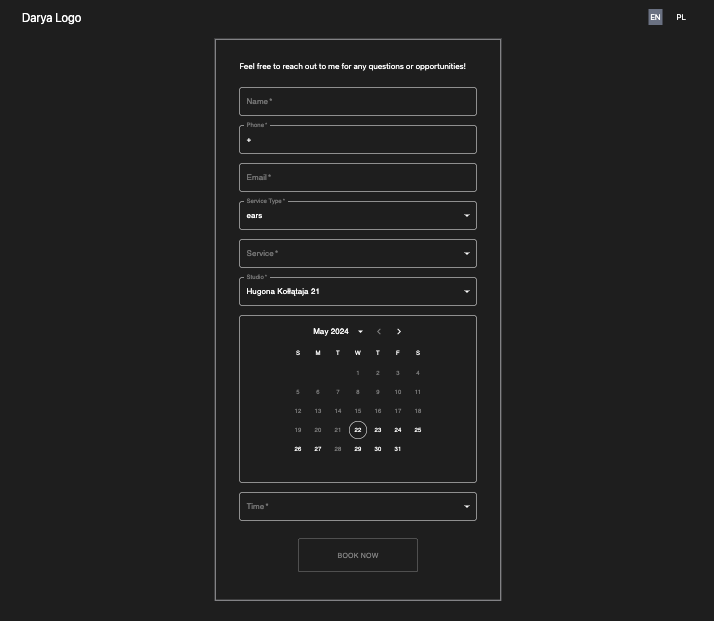
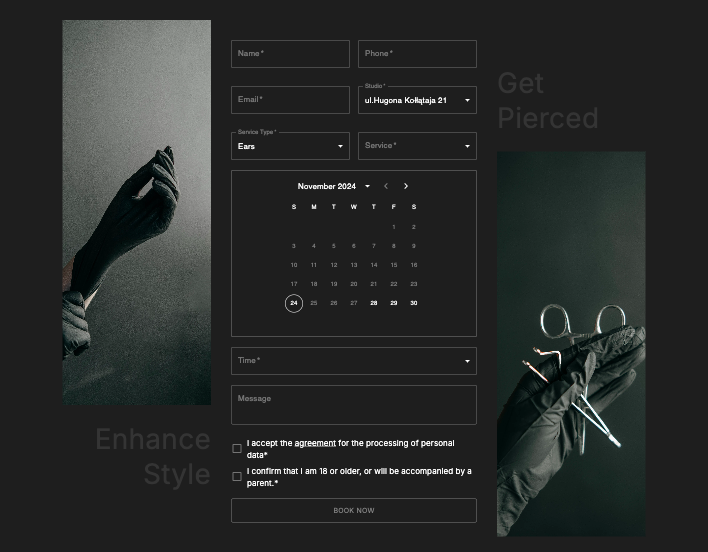
Add info about piercing-app

diff --git a/src/components/Sections/projects/projects.constants.tsx b/src/components/Sections/projects/projects.constants.tsx
@@ -177,6 +177,98 @@ export const projects: ProjectsType = [
   },
   {
     id: 3,
+    name: 'Daryauo piercing',
+    description: 'The platform for booking piercing services in Wrocław.',
+    text: (
+      <p>
+        <p>
+          This project has already been deployed and is available at the
+          following link:{' '}
+          <a
+            href="https://daryauo-piercing.pl/"
+            target="_blank"
+            className="font-bold"
+          >
+            https://daryauo-piercing.pl/
+          </a>
+          .
+        </p>
+        <p>
+          I'm using technologies such as{' '}
+          {
+            <span className="font-bold">
+              Next.js, React, Redux Toolkit, REST API
+            </span>
+          }{' '}
+          for its creation. Styles were written using{' '}
+          {<span className="font-bold">Tailwind CSS and MUI</span>}.
+        </p>
+      </p>
+    ),
+    clarification: (
+      <p>
+        Additionally, the project requires content to be displayed in Polish and
+        English languages. For this functionality, I'm using
+        <span className="font-bold"> i18next</span>.
+      </p>
+    ),
+    imgs: [
+      {
+        src: `${BASE_URL}daryauo-piercing-page.png`,
+        text: (
+          <p>
+            The main feature at the moment is a form that users fill out to book
+            a procedure. After the user completes this form, I validate it and
+            send it to the server for further notifications about their booking.
+          </p>
+        ),
+      },
+      {
+        src: `${BASE_URL}daryauo-piercing-form.png`,
+        text: (
+          <p>
+            In this project, a responsive design was implemented, catering to
+            various screens such as{' '}
+            <span className="font-bold">
+              desktops, laptops, tablets, and phones
+            </span>
+            . There is also functionality for error handling.
+          </p>
+        ),
+      },
+      {
+        src: `${BASE_URL}daryauo-piercing-error.png`,
+        text: (
+          <p>
+            The platform will include information about the piercing studio,
+            work portfolios with photos and descriptions, and reviews.
+          </p>
+        ),
+      },
+    ],
+    stack: [
+      'Next.js',
+      'React',
+      'Redux Toolkit',
+      'TypeScript',
+      'Tailwind CSS',
+      'MUI',
+      'i18next',
+      'GIT',
+    ],
+    team: '1 Front-end developer, 1 Back-end developer, Designer',
+    tasks: [
+      '- Designed and developed robust solutions meeting client requirements for functionality, scalability, and performance.',
+      '- Worked with the React framework and Next.js, applying extensive experience in TypeScript and utilizing Redux to develop an application.',
+      '- Developed a project enabling users to book a piercing procedure, including a form for submission, form validation, and the creation of new components and hooks.',
+      '- Implemented functionality for language switching to view content in different languages.',
+      '- Optimized application for improved user performance, conducted code refactoring, and enhanced overall functionality.',
+      '- Integrated the backend to send data from the validated form to the server for further user notification about the booking, working with API requests.',
+      '- Developed screen layouts with information about the piercing studio, using the MUI library and Tailwind CSS.',
+    ],
+  },
+  {
+    id: 4,
     name: 'New Energy Development s.r.o.',
     description:
       'The platform for a construction company in France to display their services, book services, and showcase a gallery of completed projects.',
@@ -275,70 +367,6 @@ export const projects: ProjectsType = [
       '- Implemented functionality for language switching to view content in different languages.',
       '- Optimized application for improved user performance, conducted code refactoring, and enhanced overall functionality.',
       '- Developed screen layouts with information about the construction company, using the MUI library and Tailwind CSS.',
-    ],
-  },
-  {
-    id: 4,
-    name: 'Daryauo piercing',
-    description: 'The platform for booking piercing services in Wrocław.',
-    text: (
-      <p>
-        <p>
-          This project is currently under development. I'm using technologies
-          such as{' '}
-          {<span className="font-bold">Next.js, React, Redux Toolkit</span>} for
-          its creation. Styles were written using{' '}
-          {<span className="font-bold">Tailwind CSS and MUI</span>}.
-        </p>
-      </p>
-    ),
-    clarification: (
-      <p>
-        Additionally, the project requires content to be displayed in Polish,
-        Russian, and English languages. For this functionality, I'm using
-        <span className="font-bold"> i18next</span>.
-      </p>
-    ),
-    imgs: [
-      {
-        src: `${BASE_URL}daryauo-piercing-page.png`,
-        text: (
-          <p>
-            The platform will include information about the piercing studio,
-            work portfolios with photos and descriptions, and reviews.
-          </p>
-        ),
-      },
-      {
-        src: `${BASE_URL}daryauo-piercing-form.png`,
-        text: (
-          <p>
-            The main feature at the moment is a form that users fill out to book
-            a procedure. After the user completes this form, I validate it and
-            send it to the server for further notifications about their booking.
-          </p>
-        ),
-      },
-    ],
-    stack: [
-      'Next.js',
-      'React',
-      'Redux Toolkit',
-      'TypeScript',
-      'Tailwind CSS',
-      'MUI',
-      'i18next',
-      'GIT',
-    ],
-    team: '1 Front-end developer, 1 Back-end developer, Designer',
-    tasks: [
-      '- Designed and developed robust solutions meeting client requirements for functionality, scalability, and performance.',
-      '- Worked with the React framework and Next.js, applying extensive experience in TypeScript and utilizing Redux to develop an application.',
-      '- Developed a project enabling users to book a piercing procedure, including a form for submission, form validation, and the creation of new components and hooks.',
-      '- Implemented functionality for language switching to view content in different languages.',
-      '- Optimized application for improved user performance, conducted code refactoring, and enhanced overall functionality.',
-      '- Integrated the backend to send data from the validated form to the server for further user notification about the booking, working with API requests.',
-      '- Developed screen layouts with information about the piercing studio, using the MUI library and Tailwind CSS.',
     ],
   },
   {

diff --git a/src/components/Sections/experience/experience.constants.ts b/src/components/Sections/experience/experience.constants.ts
@@ -16,7 +16,8 @@ export const experience: Experience[] = [
     company: 'Freelance',
     location: 'Wroclaw, Poland',
     date: 'March 2024 - Current',
-    project: 'the platform for booking piercing services in Wrocław.',
+    project:
+      '- the platform for booking piercing services in Wrocław; - the platform for a construction company to display their services, book services, and showcase a gallery of completed projects.',
     stack: [
       'Next.js',
       'React',
@@ -26,6 +27,8 @@ export const experience: Experience[] = [
       'Tailwind CSS',
       'MUI',
       'i18next',
+      'Git',
+      'Docker',
     ],
     description: [
       '- Designed and developed robust solutions meeting client requirements for functionality, scalability, and performance.',
@@ -34,34 +37,40 @@ export const experience: Experience[] = [
       '- Implemented functionality for language switching to view content in different languages.',
       '- Optimized application for improved user performance, conducted code refactoring, and enhanced overall functionality.',
       '- Integrated the backend to send data from the validated form to the server for further user notification about the booking, working with API requests.',
-      '- Developed screen layouts with information about the piercing studio, using the MUI library and Tailwind CSS.',
+      '- Developed screen layouts with information about the piercing studio and the construction company, using the MUI library and Tailwind CSS.',
     ],
   },
   {
     id: 2,
-    title: 'Software Engineer',
+    title: 'Full-Stack Engineer ',
     company: 'Freelance',
     location: 'Wroclaw, Poland',
     date: 'March 2024 - Current',
-    project:
-      'the platform for a construction company to display their services, book services, and showcase a gallery of completed projects.',
+    project: 'The blogging platform for writing and reading posts.',
     stack: [
-      'Next.js',
       'React',
-      'Redux',
-      'Redux Toolkit',
-      'TypeScript',
-      'Tailwind CSS',
-      'MUI',
-      'i18next',
+      'Node.js',
+      'Express.js',
+      'REST API',
+      'Docker',
+      'WebSocket',
+      'Amazon ECR',
+      'SQL',
+      'GraphQL',
+      'MongoDB',
+      'Git',
     ],
     description: [
-      '- Designed and developed robust solutions meeting client requirements for functionality, scalability, and performance.',
-      '- Worked with the React framework and Next.js, applying extensive experience in TypeScript and utilizing Redux to develop an application.',
-      '- Developed a project enabling users to book building services, including a form for submission, form validation, and the creation of new components and hooks.',
-      '- Implemented functionality for language switching to view content in different languages.',
-      '- Optimized application for improved user performance, conducted code refactoring, and enhanced overall functionality.',
-      '- Developed screen layouts with information about the construction company, using the MUI library and Tailwind CSS.',
+      '- Created a Node.js server using Express.js.',
+      '- Implemented routing and dynamic routes.',
+      '- Integrated MongoDB and Mongoose for database management.',
+      '- Implemented authentication flow, protected routes, and hashed passwords.',
+      '- Utilized JSON Web Token (JWT) for SignIn and Login flow.',
+      '- Added express-validator for input validation.',
+      '- Set up and established WebSockets for real-time communication.',
+      '- Wrote a Dockerfile and created a Docker image.',
+      '- Pushed the Docker image to Amazon Elastic Container Registry (ECR).',
+      '- Created a Docker Compose file and ran Docker containers.',
     ],
   },
   {

diff --git a/src/components/Sections/about/aboutSection.tsx b/src/components/Sections/about/aboutSection.tsx
@@ -35,9 +35,9 @@ export const AboutSection = () => {
               team player.
             </p>
             <p className={pClassName}>
-              Having recently learned Node.js, I'm dedicated to continuous
-              growth in the field of programming. I'm also continuing to study
-              and actively use AWS and Docker in my pet projects.
+              Having recently learned Node.js and Docker, I'm dedicated to
+              continuous growth in the field of programming. I'm also continuing
+              to study and actively use AWS in my pet projects.
             </p>
             <p className={pClassName}>
               I'm comfortable with agile methodologies, and have a B2
